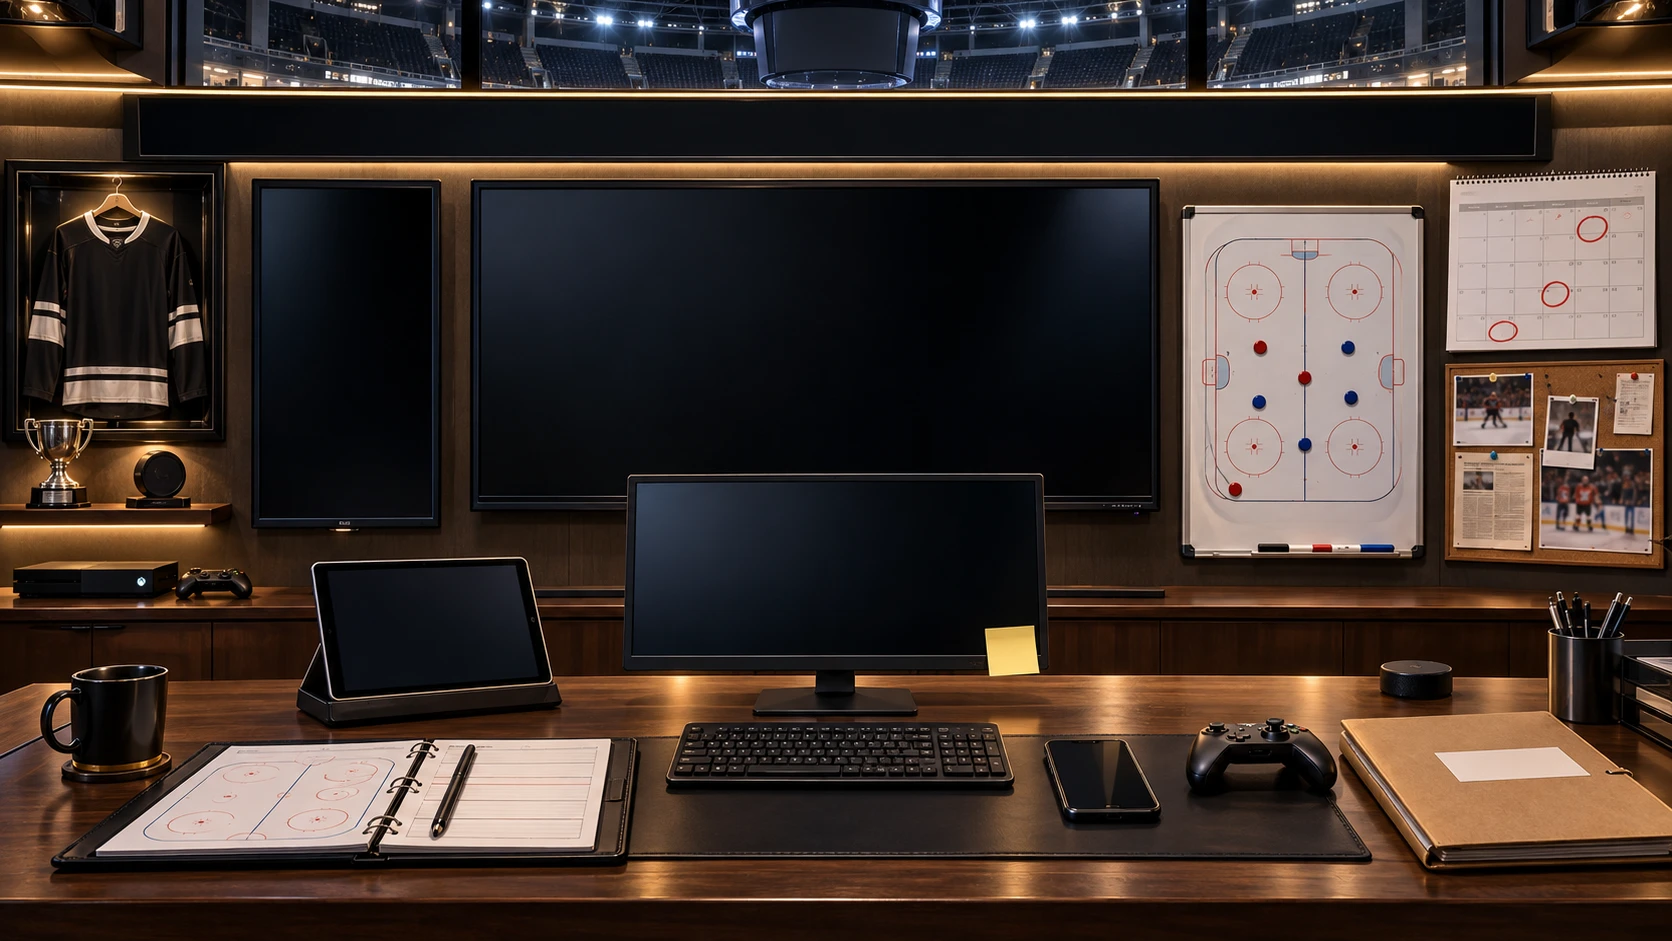
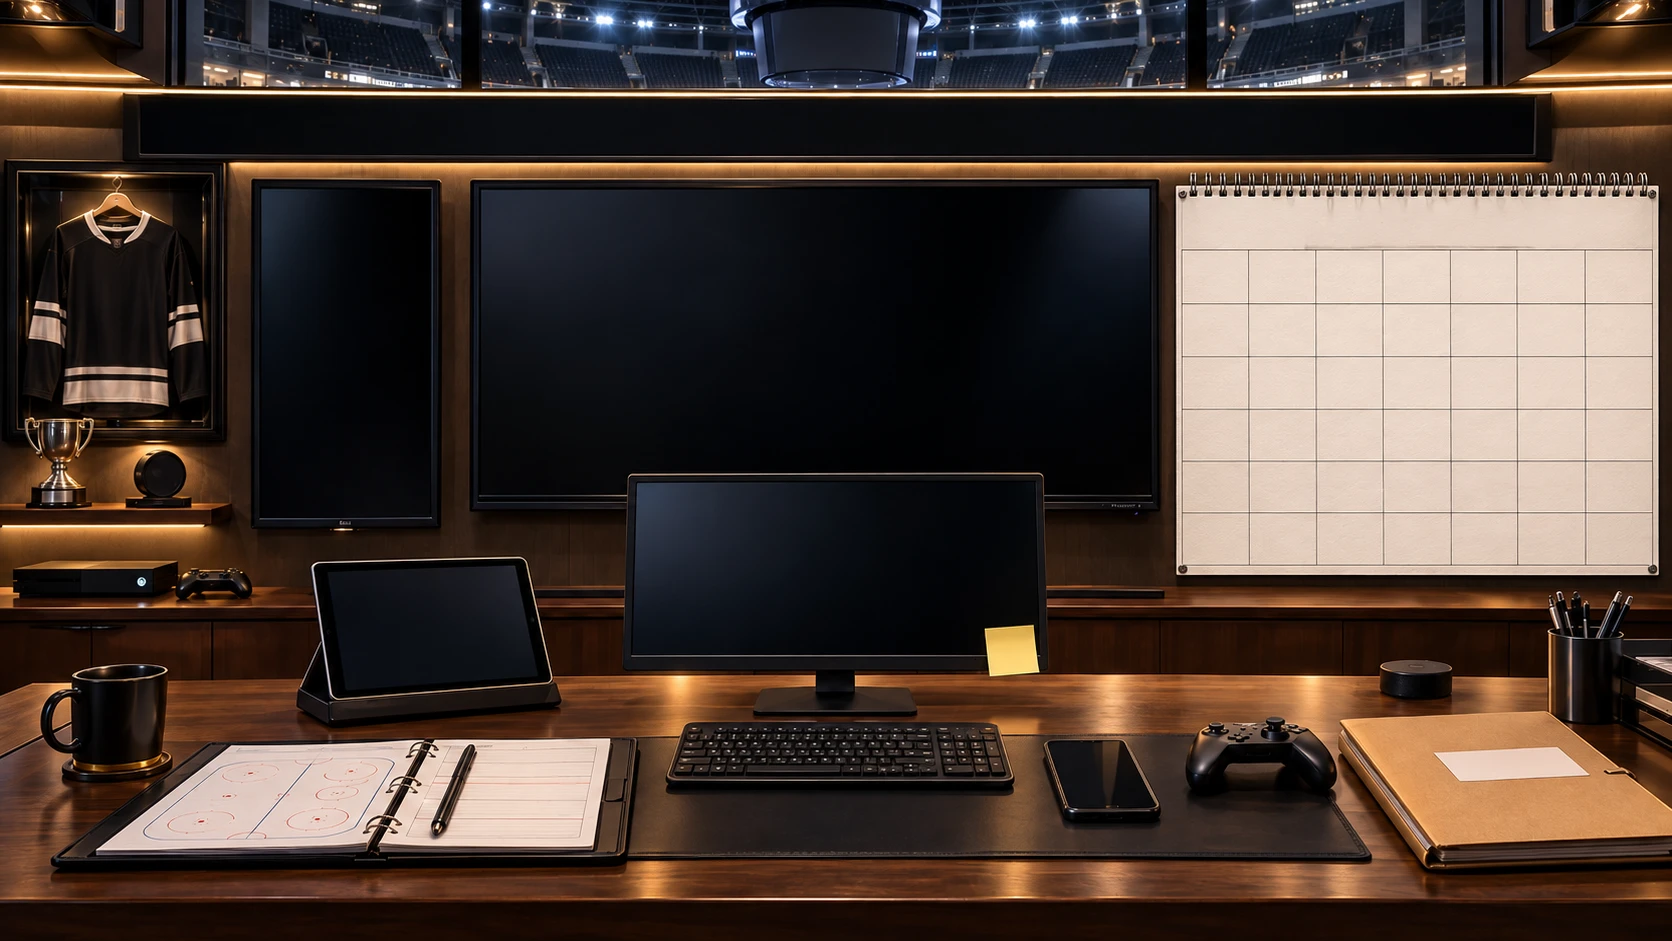
Maquette bureau DG : calendrier mural réaliste dans l'image de fond
- Nouveau fond : grand calendrier en papier (spirale, grille vierge 7 × 6) sur le mur de droite ; le reste de l'image est identique (aucun décalage mesuré)
- Le mois est écrit sur la grille de l'image, calé sur ses lignes, encre mêlée au papier ; aujourd'hui encerclé, retards hachurés
- Bandeau : logo, ‹ mois ›, fiche du mois et jours de la semaine

diff --git a/maquettes/bureau-dg.html b/maquettes/bureau-dg.html
@@ -700,7 +700,7 @@ body{ overflow-x:hidden; }
 .bu-chandail{ left:0.6%; top:17.5%; width:12.7%; height:28.9%; }
 .bu-vertical{ left:15.55%; top:20%; width:10.35%; height:35.1%; }
 .bu-tele{ left:28.7%; top:20%; width:40.1%; height:33.2%; }
-.bu-calendrier{ left:71.1%; top:19.3%; width:27.9%; height:40.6%; }
+.bu-calendrier{ left:70.33%; top:19.66%; width:28.83%; height:41.55%; }
 .bu-cahier{ left:80.1%; top:75.6%; width:18.6%; height:16.3%; }
 .bu-console{ left:0.7%; top:59.3%; width:14.5%; height:4.5%; }
 .bu-tablette{ left:18.96%; top:59.62%; width:13.94%; height:14.35%; }
@@ -827,33 +827,32 @@ body{ overflow-x:hidden; }
 .pla-txt em.neg{ color:#ff8787; }
 
 /* ---------- Grand calendrier mural : le mois de l'équipe (résultats et matchs à venir) ---------- */
-/* Couvre le mur de droite (tableau, petit calendrier et babillard de l'image). */
-.bu-calendrier .bu-contenu{ display:flex; flex-direction:column; padding-top:1.1cqw; background:#fbfaf6; color:#1a2533; border-radius:0.25cqw; box-shadow:0 0.6cqw 1.4cqw rgba(0,0,0,0.6); }
-/* Reliure à spirale */
-.bu-calendrier .bu-contenu::before{ content:''; position:absolute; left:0; right:0; top:0; height:1.1cqw; border-radius:0.25cqw 0.25cqw 0 0;
-  background:repeating-linear-gradient(90deg, transparent 0 0.55cqw, #c9ced4 0.55cqw 0.7cqw, #6c737b 0.7cqw 0.78cqw, transparent 0.78cqw 1.3cqw) 0 0 / 100% 0.9cqw no-repeat, #2a2e34; }
-.gm-tete{ display:flex; align-items:center; gap:0.5cqw; padding:0.35cqw 0.5cqw; background:var(--ce-couleur); color:var(--accent-ink); }
-.gm-tete img{ width:1.7cqw; height:1.7cqw; object-fit:contain; }
-.gm-tete b{ flex:1; font:600 1.25cqw 'Oswald', sans-serif; text-transform:uppercase; letter-spacing:0.06em; line-height:1; }
-.gm-tete small{ font:500 0.62cqw 'IBM Plex Sans', sans-serif; opacity:0.85; }
-.gm-nav{ width:1.7cqw; height:1.7cqw; display:grid; place-items:center; padding:0; border:0.08cqw solid currentColor; border-radius:0.3cqw; background:rgba(0,0,0,0.15); color:inherit; font:700 0.95cqw/1 'IBM Plex Sans', sans-serif; cursor:pointer; }
-.gm-nav:hover, .gm-nav:focus-visible{ background:rgba(0,0,0,0.35); outline:none; }
-.gm-jours, .gm-grille{ display:grid; grid-template-columns:repeat(7, minmax(0, 1fr)); }
-.gm-jours{ padding:0.2cqw 0; font:700 0.52cqw 'IBM Plex Sans', sans-serif; letter-spacing:0.08em; text-transform:uppercase; color:#868e96; text-align:center; border-bottom:0.06cqw solid #ddd8cc; }
-.gm-grille{ flex:1; grid-auto-rows:1fr; }
-.gm-case{ position:relative; min-width:0; display:flex; flex-direction:column; align-items:center; justify-content:center; gap:0.1cqw; border-right:0.05cqw solid #e6e1d6; border-bottom:0.05cqw solid #e6e1d6; }
-.gm-case > i{ position:absolute; top:0.15cqw; left:0.25cqw; font:600 0.55cqw 'IBM Plex Sans', sans-serif; font-style:normal; color:#868e96; }
-.gm-case img{ width:1.75cqw; height:1.75cqw; object-fit:contain; }
-.gm-case b{ font:400 0.82cqw/1 var(--marqueur); }
-.gm-case b.v{ color:#2b8a3e; } .gm-case b.d{ color:#c92a2a; } .gm-case b.p{ color:#e8590c; }
-.gm-case small{ font-size:0.5cqw; color:#5c6b7a; white-space:nowrap; }
-.gm-case.hors{ opacity:0.3; }
-.gm-case.auj{ background:rgba(255,212,59,0.35); }
-.gm-case.auj > i{ color:#c92a2a; font-weight:800; }
-.gm-case.retard{ background:rgba(224,49,49,0.13); }
+/* Le calendrier est dans l'image (papier, spirale, grille vide 7 × 6) : on écrit dessus, calé sur
+   ses lignes (px de l'image : bandeau 194-249, grille x 1182-1652, y 249-565). L'encre se mêle au
+   papier (multiply) pour prendre son grain et l'éclairage de la pièce. */
+.bu-calendrier .bu-contenu{ color:#1d2a4a; }
+.gm-tete{ position:absolute; left:1.24%; width:97.5%; top:2.3%; height:14.07%; display:grid; grid-template-rows:1fr auto; mix-blend-mode:multiply; }
+.gm-titre{ display:flex; align-items:center; justify-content:center; gap:0.6cqw; }
+.gm-titre b{ font:400 1.45cqw/1 var(--marqueur); color:var(--ce-couleur); text-transform:uppercase; letter-spacing:0.04em; }
+.gm-titre small{ position:absolute; right:0.6cqw; top:0.55cqw; font:400 0.72cqw var(--ecrit); color:#495057; }
+.gm-titre img{ position:absolute; left:0.5cqw; top:0.25cqw; width:1.8cqw; height:1.8cqw; object-fit:contain; }
+.gm-nav{ width:1.5cqw; height:1.5cqw; display:grid; place-items:center; padding:0; border:0.1cqw solid currentColor; border-radius:50%; background:none; color:#1d2a4a; font:400 0.9cqw/1 var(--marqueur); cursor:pointer; }
+.gm-nav:hover, .gm-nav:focus-visible{ background:rgba(29,42,74,0.12); outline:none; }
+.gm-jours, .gm-grille{ display:grid; grid-template-columns:66fr 68fr 67fr 67fr 67fr 68fr 67fr; }
+.gm-jours{ padding-bottom:0.15cqw; font:700 0.5cqw 'IBM Plex Sans', sans-serif; letter-spacing:0.1em; text-transform:uppercase; color:#6c757d; text-align:center; }
+.gm-grille{ position:absolute; left:1.24%; width:97.5%; top:16.37%; height:80.82%; grid-template-rows:54fr 53fr 53fr 52fr 51fr 53fr; mix-blend-mode:multiply; }
+.gm-case{ position:relative; min-width:0; display:flex; flex-direction:column; align-items:center; justify-content:center; gap:0.12cqw; padding-top:0.5cqw; }
+.gm-case > i{ position:absolute; top:0.2cqw; left:0.3cqw; font:400 0.72cqw/1 var(--ecrit); font-style:normal; color:#495057; }
+.gm-case img{ width:1.65cqw; height:1.65cqw; object-fit:contain; }
+.gm-case b{ font:400 0.85cqw/1 var(--marqueur); }
+.gm-case b.v{ color:#237032; } .gm-case b.d{ color:#b02525; } .gm-case b.p{ color:#d9480f; }
+.gm-case small{ font:400 0.6cqw/1 var(--ecrit); color:#495057; white-space:nowrap; }
+.gm-case.hors > *{ opacity:0.3; }
+/* Aujourd'hui : encerclé au marqueur rouge. */
+.gm-case.auj::after{ content:''; position:absolute; inset:8% 6%; border:0.14cqw solid #d6336c; border-radius:48% 52% 45% 55% / 55% 45% 55% 45%; rotate:-4deg; }
+.gm-case.auj > i{ color:#c92a2a; font-weight:700; }
+.gm-case.retard{ background:repeating-linear-gradient(-45deg, rgba(201,42,42,0.16) 0 0.2cqw, transparent 0.2cqw 0.5cqw); }
 .gm-case.retard small{ color:#c92a2a; font-weight:700; }
-.gm-pied{ display:flex; justify-content:space-between; gap:0.6cqw; padding:0.3cqw 0.5cqw; border-top:0.06cqw solid #ddd8cc; font-size:0.62cqw; color:#495057; white-space:nowrap; }
-.gm-pied b{ color:#1a2533; }
 .z-dates{ list-style:none; margin:0; padding:0; }
 .z-dates li{ display:flex; justify-content:space-between; gap:12px; padding:6px 0; border-bottom:1px dashed #ced4da; }
 .z-dates li em{ font-style:normal; font-weight:700; color:#c92a2a; white-space:nowrap; }
@@ -1082,7 +1081,7 @@ body{ overflow-x:hidden; }
     <!-- La scène : le bureau du DG (mur + bureau). Chaque objet s'ouvre en plein écran. -->
     <!-- Image de fond (1672 × 941) ; chaque zone est placée en % de l'image et affiche les vraies données. -->
     <div class="bu-scene" id="scene" hidden>
-      <img class="bu-fond" src="maquettes/bureau-dg-fond.webp" alt="" width="1672" height="941">
+      <img class="bu-fond" src="maquettes/bureau-dg-fond.webp?v=2" alt="" width="1672" height="941">
       <button type="button" class="bu-objet bu-del" data-objet="resultats" aria-label="Bandeau : résultats de la ligue"><div class="bu-ecran" id="o-del"></div></button>
       <button type="button" class="bu-objet bu-chandail" data-objet="fiche" aria-label="Chandail : fiche de l'équipe et du DG"><span class="bu-ecusson" id="o-ecusson"></span></button>
       <button type="button" class="bu-objet bu-vertical" data-objet="meneurs" aria-label="Écran vertical : stats de la ligue et de l'équipe"><div class="bu-ecran" id="o-meneurs"></div></button>
@@ -2423,19 +2422,15 @@ body{ overflow-x:hidden; }
     const duMois = mesMatchs().filter(x => x.date.startsWith(moisZoom));
     const joues = duMois.filter(x => x.joue);
     const v = joues.filter(x => resultatPour(x) === 'v').length, p = joues.filter(x => resultatPour(x) === 'p').length;
-    const titre = el('b', null, NOM_MOIS_CAP(m - 1) + ' ' + a);
-    tete.append(nav('‹', -1, 'Mois précédent'), logo(equipe), titre, el('small', null, joues.length ? `${v}-${joues.length - v - p}-${p} ce mois` : duMois.length + ' matchs'), nav('›', 1, 'Mois suivant'));
+    // Bandeau vierge du calendrier : logo, ‹ mois ›, fiche du mois, puis les jours de la semaine.
+    const ligneTitre = el('div', 'gm-titre');
+    ligneTitre.append(logo(equipe), nav('‹', -1, 'Mois précédent'), el('b', null, NOM_MOIS_CAP(m - 1) + ' ' + a), nav('›', 1, 'Mois suivant'),
+      el('small', null, joues.length ? `${v}-${joues.length - v - p}-${p} ce mois` : duMois.length + ' matchs'));
     const jours = el('div', 'gm-jours'); ['Lun', 'Mar', 'Mer', 'Jeu', 'Ven', 'Sam', 'Dim'].forEach(j => jours.append(el('span', null, j)));
+    tete.append(ligneTitre, jours);
     const grille = el('div', 'gm-grille');
     grilleMois(a, m - 1, true).forEach(c => { c.classList.add('gm-case'); if(c.classList.contains('retard')) c.append(el('small', null, 'en retard')); grille.append(c); });
-    // Pied : dernier résultat et prochain match, quel que soit le mois affiché.
-    const pied = el('div', 'gm-pied');
-    const dernier = mesMatchs().filter(x => x.joue).sort((x, y) => y.date.localeCompare(x.date) || Number(y.num) - Number(x.num))[0];
-    const proch = prochainMatch();
-    const morceau = (lib, txt) => { const s = el('span', null, lib + ' '); s.append(el('b', null, txt)); return s; };
-    if(dernier){ const pour = dernier.v === equipe ? dernier.bv : dernier.bd, contre = dernier.v === equipe ? dernier.bd : dernier.bv; pied.append(morceau('Dernier :', (resultatPour(dernier) === 'v' ? 'V ' : 'D ') + pour + '-' + contre + ' ' + (dernier.v === equipe ? '@ ' : 'vs ') + adversaireDe(dernier))); }
-    if(proch) pied.append(morceau('Prochain :', (proch.date === AUJ ? 'ce soir' : fMois.format(parse(proch.date))) + ' ' + (proch.v === equipe ? '@ ' : 'vs ') + adversaireDe(proch)));
-    box.replaceChildren(tete, jours, grille, pied);
+    box.replaceChildren(tete, grille);
   }
   const NOM_MOIS_CAP = m => NOMS_MOIS[m].charAt(0).toUpperCase() + NOMS_MOIS[m].slice(1);
 
